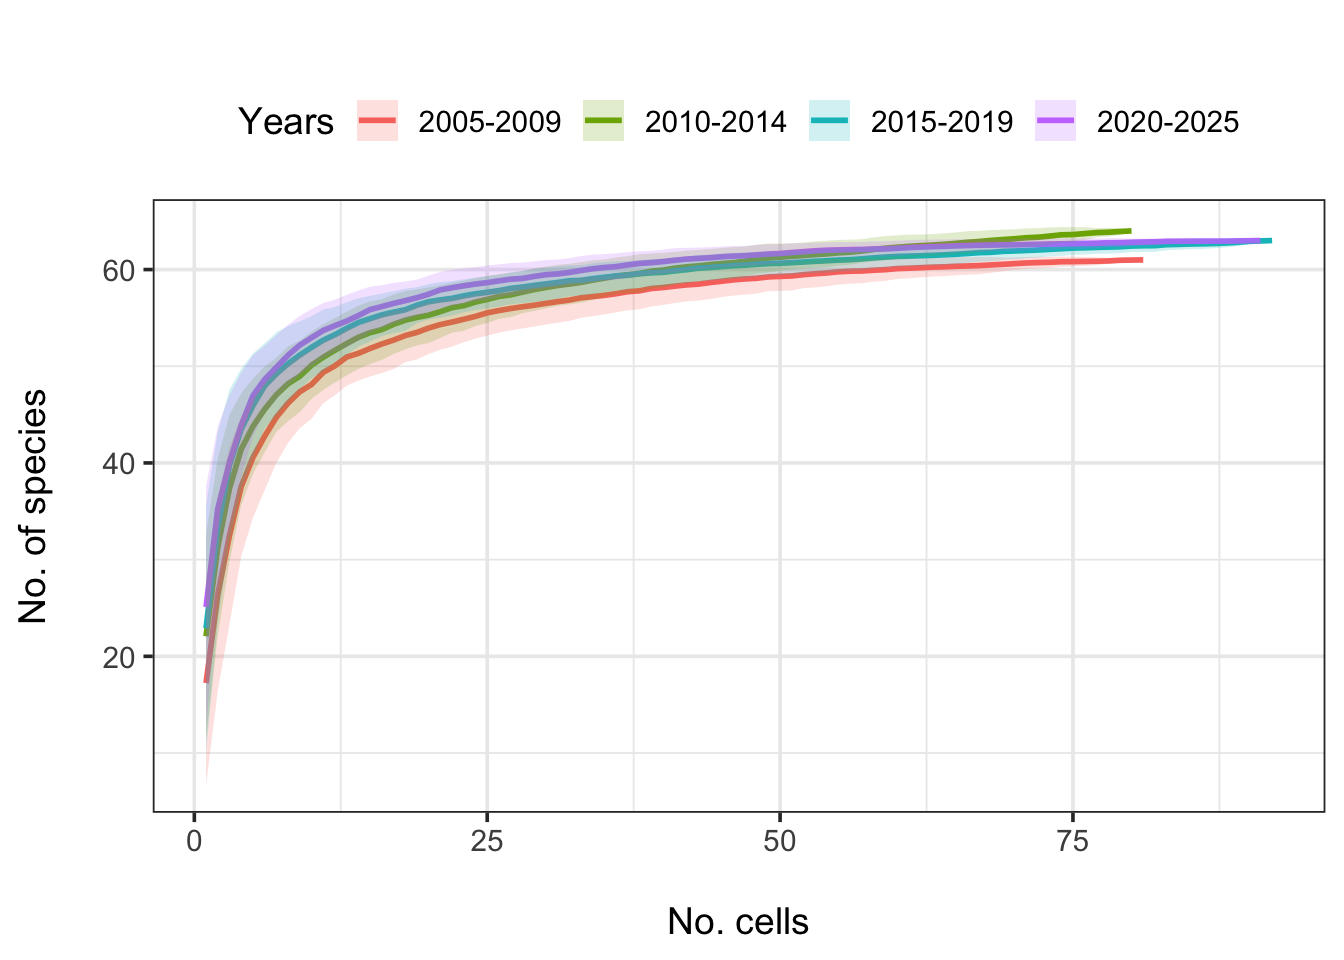
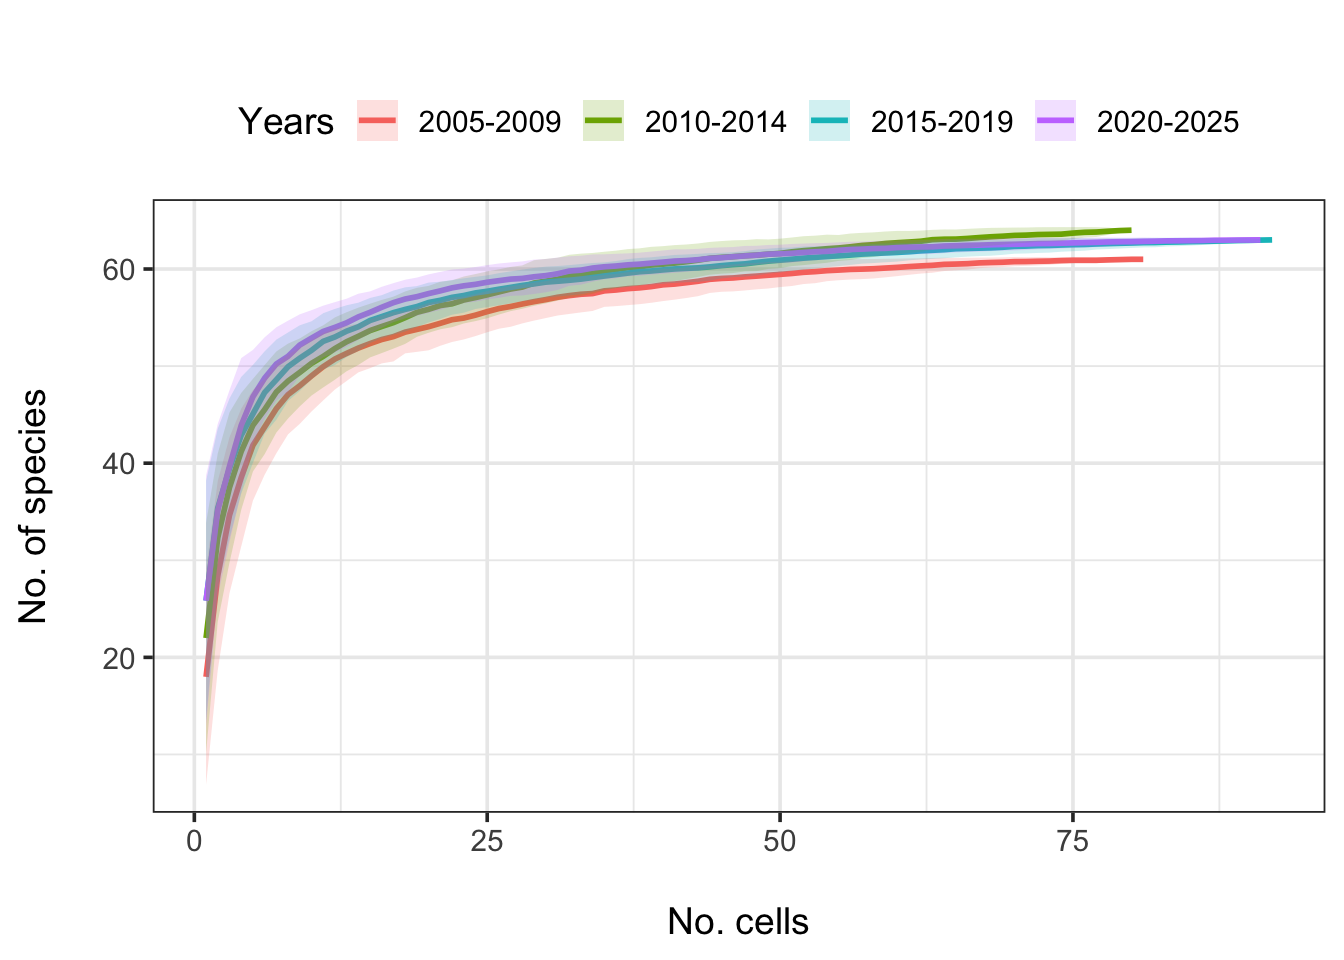
pcount

Changed region(s): [[0.125, 0.2188, 0.9062, 0.7188]]

diff --git a/000.odonataOccupancy20.html b/000.odonataOccupancy20.html
@@ -7,7 +7,7 @@
 <meta name="viewport" content="width=device-width, initial-scale=1.0, user-scalable=yes">
 
 <meta name="author" content="Gianandrea La Porta">
-<meta name="dcterms.date" content="2025-11-05">
+<meta name="dcterms.date" content="2025-12-02">
 
 <title>occupancyOdonata20k</title>
 <style>
@@ -121,7 +121,7 @@ pre > code.sourceCode > span > a:first-child::before { text-decoration: underlin
     <div>
     <div class="quarto-title-meta-heading">Published</div>
     <div class="quarto-title-meta-contents">
-      <p class="date">November 5, 2025</p>
+      <p class="date">December 2, 2025</p>
     </div>
   </div>
   
@@ -2155,23 +2155,23 @@ $ cellcode20      &lt;dbl&gt; 40, 40, 40, 40, 40, 41, 41, 41, 41, 41, 41, 41, 41
 <span id="cb125-7"><a href="#cb125-7" aria-hidden="true" tabindex="-1"></a>  )</span></code><button title="Copy to Clipboard" class="code-copy-button"><i class="bi"></i></button></pre></div>
 </details>
 <div class="cell-output-display">
-<div id="qcvmoqupbc" style="padding-left:0px;padding-right:0px;padding-top:10px;padding-bottom:10px;overflow-x:auto;overflow-y:auto;width:auto;height:auto;">
-<style>#qcvmoqupbc table {
+<div id="qscjtolvbl" style="padding-left:0px;padding-right:0px;padding-top:10px;padding-bottom:10px;overflow-x:auto;overflow-y:auto;width:auto;height:auto;">
+<style>#qscjtolvbl table {
   font-family: system-ui, 'Segoe UI', Roboto, Helvetica, Arial, sans-serif, 'Apple Color Emoji', 'Segoe UI Emoji', 'Segoe UI Symbol', 'Noto Color Emoji';
   -webkit-font-smoothing: antialiased;
   -moz-osx-font-smoothing: grayscale;
 }
 
-#qcvmoqupbc thead, #qcvmoqupbc tbody, #qcvmoqupbc tfoot, #qcvmoqupbc tr, #qcvmoqupbc td, #qcvmoqupbc th {
+#qscjtolvbl thead, #qscjtolvbl tbody, #qscjtolvbl tfoot, #qscjtolvbl tr, #qscjtolvbl td, #qscjtolvbl th {
   border-style: none;
 }
 
-#qcvmoqupbc p {
+#qscjtolvbl p {
   margin: 0;
   padding: 0;
 }
 
-#qcvmoqupbc .gt_table {
+#qscjtolvbl .gt_table {
   display: table;
   border-collapse: collapse;
   line-height: normal;
@@ -2197,12 +2197,12 @@ $ cellcode20      &lt;dbl&gt; 40, 40, 40, 40, 40, 41, 41, 41, 41, 41, 41, 41, 41
   border-left-color: #D3D3D3;
 }
 
-#qcvmoqupbc .gt_caption {
+#qscjtolvbl .gt_caption {
   padding-top: 4px;
   padding-bottom: 4px;
 }
 
-#qcvmoqupbc .gt_title {
+#qscjtolvbl .gt_title {
   color: #333333;
   font-size: 125%;
   font-weight: initial;
@@ -2214,7 +2214,7 @@ $ cellcode20      &lt;dbl&gt; 40, 40, 40, 40, 40, 41, 41, 41, 41, 41, 41, 41, 41
   border-bottom-width: 0;
 }
 
-#qcvmoqupbc .gt_subtitle {
+#qscjtolvbl .gt_subtitle {
   color: #333333;
   font-size: 85%;
   font-weight: initial;
@@ -2226,7 +2226,7 @@ $ cellcode20      &lt;dbl&gt; 40, 40, 40, 40, 40, 41, 41, 41, 41, 41, 41, 41, 41
   border-top-width: 0;
 }
 
-#qcvmoqupbc .gt_heading {
+#qscjtolvbl .gt_heading {
   background-color: #FFFFFF;
   text-align: center;
   border-bottom-color: #FFFFFF;
@@ -2238,13 +2238,13 @@ $ cellcode20      &lt;dbl&gt; 40, 40, 40, 40, 40, 41, 41, 41, 41, 41, 41, 41, 41
   border-right-color: #D3D3D3;
 }
 
-#qcvmoqupbc .gt_bottom_border {
+#qscjtolvbl .gt_bottom_border {
   border-bottom-style: solid;
   border-bottom-width: 2px;
   border-bottom-color: #D3D3D3;
 }
 
-#qcvmoqupbc .gt_col_headings {
+#qscjtolvbl .gt_col_headings {
   border-top-style: solid;
   border-top-width: 2px;
   border-top-color: #D3D3D3;
@@ -2259,7 +2259,7 @@ $ cellcode20      &lt;dbl&gt; 40, 40, 40, 40, 40, 41, 41, 41, 41, 41, 41, 41, 41
   border-right-color: #D3D3D3;
 }
 
-#qcvmoqupbc .gt_col_heading {
+#qscjtolvbl .gt_col_heading {
   color: #333333;
   background-color: #FFFFFF;
   font-size: 100%;
@@ -2279,7 +2279,7 @@ $ cellcode20      &lt;dbl&gt; 40, 40, 40, 40, 40, 41, 41, 41, 41, 41, 41, 41, 41
   overflow-x: hidden;
 }
 
-#qcvmoqupbc .gt_column_spanner_outer {
+#qscjtolvbl .gt_column_spanner_outer {
   color: #333333;
   background-color: #FFFFFF;
   font-size: 100%;
@@ -2291,15 +2291,15 @@ $ cellcode20      &lt;dbl&gt; 40, 40, 40, 40, 40, 41, 41, 41, 41, 41, 41, 41, 41
   padding-right: 4px;
 }
 
-#qcvmoqupbc .gt_column_spanner_outer:first-child {
+#qscjtolvbl .gt_column_spanner_outer:first-child {
   padding-left: 0;
 }
 
-#qcvmoqupbc .gt_column_spanner_outer:last-child {
+#qscjtolvbl .gt_column_spanner_outer:last-child {
   padding-right: 0;
 }
 
-#qcvmoqupbc .gt_column_spanner {
+#qscjtolvbl .gt_column_spanner {
   border-bottom-style: solid;
   border-bottom-width: 2px;
   border-bottom-color: #D3D3D3;
@@ -2311,11 +2311,11 @@ $ cellcode20      &lt;dbl&gt; 40, 40, 40, 40, 40, 41, 41, 41, 41, 41, 41, 41, 41
   width: 100%;
 }
 
-#qcvmoqupbc .gt_spanner_row {
+#qscjtolvbl .gt_spanner_row {
   border-bottom-style: hidden;
 }
 
-#qcvmoqupbc .gt_group_heading {
+#qscjtolvbl .gt_group_heading {
   padding-top: 8px;
   padding-bottom: 8px;
   padding-left: 5px;
@@ -2341,7 +2341,7 @@ $ cellcode20      &lt;dbl&gt; 40, 40, 40, 40, 40, 41, 41, 41, 41, 41, 41, 41, 41
   text-align: left;
 }
 
-#qcvmoqupbc .gt_empty_group_heading {
+#qscjtolvbl .gt_empty_group_heading {
   padding: 0.5px;
   color: #333333;
   background-color: #FFFFFF;
@@ -2356,15 +2356,15 @@ $ cellcode20      &lt;dbl&gt; 40, 40, 40, 40, 40, 41, 41, 41, 41, 41, 41, 41, 41
   vertical-align: middle;
 }
 
-#qcvmoqupbc .gt_from_md > :first-child {
+#qscjtolvbl .gt_from_md > :first-child {
   margin-top: 0;
 }
 
-#qcvmoqupbc .gt_from_md > :last-child {
+#qscjtolvbl .gt_from_md > :last-child {
   margin-bottom: 0;
 }
 
-#qcvmoqupbc .gt_row {
+#qscjtolvbl .gt_row {
   padding-top: 8px;
   padding-bottom: 8px;
   padding-left: 5px;
@@ -2383,7 +2383,7 @@ $ cellcode20      &lt;dbl&gt; 40, 40, 40, 40, 40, 41, 41, 41, 41, 41, 41, 41, 41
   overflow-x: hidden;
 }
 
-#qcvmoqupbc .gt_stub {
+#qscjtolvbl .gt_stub {
   color: #333333;
   background-color: #FFFFFF;
   font-size: 100%;
@@ -2396,7 +2396,7 @@ $ cellcode20      &lt;dbl&gt; 40, 40, 40, 40, 40, 41, 41, 41, 41, 41, 41, 41, 41
   padding-right: 5px;
 }
 
-#qcvmoqupbc .gt_stub_row_group {
+#qscjtolvbl .gt_stub_row_group {
   color: #333333;
   background-color: #FFFFFF;
   font-size: 100%;
@@ -2410,15 +2410,15 @@ $ cellcode20      &lt;dbl&gt; 40, 40, 40, 40, 40, 41, 41, 41, 41, 41, 41, 41, 41
   vertical-align: top;
 }
 
-#qcvmoqupbc .gt_row_group_first td {
+#qscjtolvbl .gt_row_group_first td {
   border-top-width: 2px;
 }
 
-#qcvmoqupbc .gt_row_group_first th {
+#qscjtolvbl .gt_row_group_first th {
   border-top-width: 2px;
 }
 
-#qcvmoqupbc .gt_summary_row {
+#qscjtolvbl .gt_summary_row {
   color: #333333;
   background-color: #FFFFFF;
   text-transform: inherit;
@@ -2428,16 +2428,16 @@ $ cellcode20      &lt;dbl&gt; 40, 40, 40, 40, 40, 41, 41, 41, 41, 41, 41, 41, 41
   padding-right: 5px;
 }
 
-#qcvmoqupbc .gt_first_summary_row {
+#qscjtolvbl .gt_first_summary_row {
   border-top-style: solid;
   border-top-color: #D3D3D3;
 }
 
-#qcvmoqupbc .gt_first_summary_row.thick {
+#qscjtolvbl .gt_first_summary_row.thick {
   border-top-width: 2px;
 }
 
-#qcvmoqupbc .gt_last_summary_row {
+#qscjtolvbl .gt_last_summary_row {
   padding-top: 8px;
   padding-bottom: 8px;
   padding-left: 5px;
@@ -2447,7 +2447,7 @@ $ cellcode20      &lt;dbl&gt; 40, 40, 40, 40, 40, 41, 41, 41, 41, 41, 41, 41, 41
   border-bottom-color: #D3D3D3;
 }
 
-#qcvmoqupbc .gt_grand_summary_row {
+#qscjtolvbl .gt_grand_summary_row {
   color: #333333;
   background-color: #FFFFFF;
   text-transform: inherit;
@@ -2457,7 +2457,7 @@ $ cellcode20      &lt;dbl&gt; 40, 40, 40, 40, 40, 41, 41, 41, 41, 41, 41, 41, 41
   padding-right: 5px;
 }
 
-#qcvmoqupbc .gt_first_grand_summary_row {
+#qscjtolvbl .gt_first_grand_summary_row {
   padding-top: 8px;
   padding-bottom: 8px;
   padding-left: 5px;
@@ -2467,7 +2467,7 @@ $ cellcode20      &lt;dbl&gt; 40, 40, 40, 40, 40, 41, 41, 41, 41, 41, 41, 41, 41
   border-top-color: #D3D3D3;
 }
 
-#qcvmoqupbc .gt_last_grand_summary_row_top {
+#qscjtolvbl .gt_last_grand_summary_row_top {
   padding-top: 8px;
   padding-bottom: 8px;
   padding-left: 5px;
@@ -2477,11 +2477,11 @@ $ cellcode20      &lt;dbl&gt; 40, 40, 40, 40, 40, 41, 41, 41, 41, 41, 41, 41, 41
   border-bottom-color: #D3D3D3;
 }
 
-#qcvmoqupbc .gt_striped {
+#qscjtolvbl .gt_striped {
   background-color: rgba(128, 128, 128, 0.05);
 }
 
-#qcvmoqupbc .gt_table_body {
+#qscjtolvbl .gt_table_body {
   border-top-style: solid;
   border-top-width: 2px;
   border-top-color: #D3D3D3;
@@ -2490,7 +2490,7 @@ $ cellcode20      &lt;dbl&gt; 40, 40, 40, 40, 40, 41, 41, 41, 41, 41, 41, 41, 41
   border-bottom-color: #D3D3D3;
 }
 
-#qcvmoqupbc .gt_footnotes {
+#qscjtolvbl .gt_footnotes {
   color: #333333;
   background-color: #FFFFFF;
   border-bottom-style: none;
@@ -2504,7 +2504,7 @@ $ cellcode20      &lt;dbl&gt; 40, 40, 40, 40, 40, 41, 41, 41, 41, 41, 41, 41, 41
   border-right-color: #D3D3D3;
 }
 
-#qcvmoqupbc .gt_footnote {
+#qscjtolvbl .gt_footnote {
   margin: 0px;
   font-size: 90%;
   padding-top: 4px;
@@ -2513,7 +2513,7 @@ $ cellcode20      &lt;dbl&gt; 40, 40, 40, 40, 40, 41, 41, 41, 41, 41, 41, 41, 41
   padding-right: 5px;
 }
 
-#qcvmoqupbc .gt_sourcenotes {
+#qscjtolvbl .gt_sourcenotes {
   color: #333333;
   background-color: #FFFFFF;
   border-bottom-style: none;
@@ -2527,7 +2527,7 @@ $ cellcode20      &lt;dbl&gt; 40, 40, 40, 40, 40, 41, 41, 41, 41, 41, 41, 41, 41
   border-right-color: #D3D3D3;
 }
 
-#qcvmoqupbc .gt_sourcenote {
+#qscjtolvbl .gt_sourcenote {
   font-size: 90%;
   padding-top: 4px;
   padding-bottom: 4px;
@@ -2535,72 +2535,72 @@ $ cellcode20      &lt;dbl&gt; 40, 40, 40, 40, 40, 41, 41, 41, 41, 41, 41, 41, 41
   padding-right: 5px;
 }
 
-#qcvmoqupbc .gt_left {
+#qscjtolvbl .gt_left {
   text-align: left;
 }
 
-#qcvmoqupbc .gt_center {
+#qscjtolvbl .gt_center {
   text-align: center;
 }
 
-#qcvmoqupbc .gt_right {
+#qscjtolvbl .gt_right {
   text-align: right;
   font-variant-numeric: tabular-nums;
 }
 
-#qcvmoqupbc .gt_font_normal {
+#qscjtolvbl .gt_font_normal {
   font-weight: normal;
 }
 
-#qcvmoqupbc .gt_font_bold {
+#qscjtolvbl .gt_font_bold {
   font-weight: bold;
 }
 
-#qcvmoqupbc .gt_font_italic {
+#qscjtolvbl .gt_font_italic {
   font-style: italic;
 }
 
-#qcvmoqupbc .gt_super {
+#qscjtolvbl .gt_super {
   font-size: 65%;
 }
 
-#qcvmoqupbc .gt_footnote_marks {
+#qscjtolvbl .gt_footnote_marks {
   font-size: 75%;
   vertical-align: 0.4em;
   position: initial;
 }
 
-#qcvmoqupbc .gt_asterisk {
+#qscjtolvbl .gt_asterisk {
   font-size: 100%;
   vertical-align: 0;
 }
 
-#qcvmoqupbc .gt_indent_1 {
+#qscjtolvbl .gt_indent_1 {
   text-indent: 5px;
 }
 
-#qcvmoqupbc .gt_indent_2 {
+#qscjtolvbl .gt_indent_2 {
   text-indent: 10px;
 }
 
-#qcvmoqupbc .gt_indent_3 {
+#qscjtolvbl .gt_indent_3 {
   text-indent: 15px;
 }
 
-#qcvmoqupbc .gt_indent_4 {
+#qscjtolvbl .gt_indent_4 {
   text-indent: 20px;
 }
 
-#qcvmoqupbc .gt_indent_5 {
+#qscjtolvbl .gt_indent_5 {
   text-indent: 25px;
 }
 
-#qcvmoqupbc .katex-display {
+#qscjtolvbl .katex-display {
   display: inline-flex !important;
   margin-bottom: 0.75em !important;
 }
 
-#qcvmoqupbc div.Reactable > div.rt-table > div.rt-thead > div.rt-tr.rt-tr-group-header > div.rt-th-group:after {
+#qscjtolvbl div.Reactable > div.rt-table > div.rt-thead > div.rt-tr.rt-tr-group-header > div.rt-th-group:after {
   height: 0px !important;
 }
 </style>
